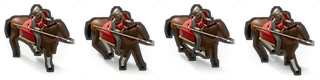
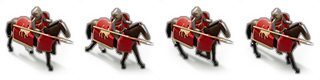
Graphismes 3D : point d'étape avant redémarrage (terrains, places fortes, effets, tours et unités en cours)
Claude-Session: https://claude.ai/code/session_013imxrBtnjcaCcqsphPahqh

diff --git a/assets/images/td/sprites.js b/assets/images/td/sprites.js
@@ -6,15 +6,81 @@
 // le sprite, à dessiner dans une passe « sol », sous tous les sprites (après le terrain).
 window.JEU = window.JEU || {};
 JEU.SPRITES = {
-  "place-angleterre-intact": {"src": "assets/images/td/place-angleterre-intact.png", "w": 150, "h": 150, "ax": 75, "ay": 132, "frames": 1},
-  "place-france-intact": {"src": "assets/images/td/place-france-intact.png", "w": 150, "h": 150, "ax": 75, "ay": 132, "frames": 1},
-  "place-omeyyades-intact": {"src": "assets/images/td/place-omeyyades-intact.png", "w": 150, "h": 150, "ax": 75, "ay": 132, "frames": 1},
+  "effet-carreau": {"src": "assets/images/td/effet-carreau.png", "w": 32, "h": 8, "ax": 16, "ay": 4, "frames": 1},
+  "effet-eclats": {"src": "assets/images/td/effet-eclats.png", "w": 32, "h": 32, "ax": 16, "ay": 16, "frames": 4},
+  "effet-fleche": {"src": "assets/images/td/effet-fleche.png", "w": 24, "h": 6, "ax": 12, "ay": 3, "frames": 1},
+  "effet-pierre": {"src": "assets/images/td/effet-pierre.png", "w": 14, "h": 14, "ax": 7, "ay": 7, "frames": 1},
+  "effet-poussiere": {"src": "assets/images/td/effet-poussiere.png", "w": 48, "h": 48, "ax": 24, "ay": 40, "frames": 5},
+  "fond-campagne": {"src": "assets/images/campagne/fond-campagne.jpg", "w": 1000, "h": 530, "ax": 0, "ay": 0, "frames": 1},
+  "lieu-angleterre": {"src": "assets/images/campagne/lieu-angleterre.png", "w": 80, "h": 80, "ax": 40, "ay": 64, "frames": 1},
+  "lieu-brume": {"src": "assets/images/campagne/lieu-brume.png", "w": 80, "h": 80, "ax": 40, "ay": 64, "frames": 1},
+  "lieu-france": {"src": "assets/images/campagne/lieu-france.png", "w": 80, "h": 80, "ax": 40, "ay": 64, "frames": 1},
+  "lieu-omeyyades": {"src": "assets/images/campagne/lieu-omeyyades.png", "w": 80, "h": 80, "ax": 40, "ay": 64, "frames": 1},
+  "ombre-place-angleterre-abime": {"src": "assets/images/td/ombre-place-angleterre-abime.png", "w": 240, "h": 210, "ax": 75, "ay": 88, "frames": 1},
+  "ombre-place-angleterre-intact": {"src": "assets/images/td/ombre-place-angleterre-intact.png", "w": 240, "h": 210, "ax": 75, "ay": 88, "frames": 1},
+  "ombre-place-angleterre-ruine": {"src": "assets/images/td/ombre-place-angleterre-ruine.png", "w": 240, "h": 210, "ax": 75, "ay": 88, "frames": 1},
+  "ombre-place-france-abime": {"src": "assets/images/td/ombre-place-france-abime.png", "w": 240, "h": 210, "ax": 75, "ay": 88, "frames": 1},
+  "ombre-place-france-intact": {"src": "assets/images/td/ombre-place-france-intact.png", "w": 240, "h": 210, "ax": 75, "ay": 88, "frames": 1},
+  "ombre-place-france-ruine": {"src": "assets/images/td/ombre-place-france-ruine.png", "w": 240, "h": 210, "ax": 75, "ay": 88, "frames": 1},
+  "ombre-place-omeyyades-abime": {"src": "assets/images/td/ombre-place-omeyyades-abime.png", "w": 240, "h": 210, "ax": 75, "ay": 88, "frames": 1},
+  "ombre-place-omeyyades-intact": {"src": "assets/images/td/ombre-place-omeyyades-intact.png", "w": 240, "h": 210, "ax": 75, "ay": 88, "frames": 1},
+  "ombre-place-omeyyades-ruine": {"src": "assets/images/td/ombre-place-omeyyades-ruine.png", "w": 240, "h": 210, "ax": 75, "ay": 88, "frames": 1},
+  "ombre-tour-archers-angleterre-1": {"src": "assets/images/td/ombre-tour-archers-angleterre-1.png", "w": 112, "h": 118, "ax": 35, "ay": 72, "frames": 1},
+  "ombre-tour-archers-france-1": {"src": "assets/images/td/ombre-tour-archers-france-1.png", "w": 112, "h": 118, "ax": 35, "ay": 72, "frames": 1},
+  "ombre-tour-archers-france-2": {"src": "assets/images/td/ombre-tour-archers-france-2.png", "w": 112, "h": 118, "ax": 35, "ay": 72, "frames": 1},
+  "ombre-tour-archers-france-3": {"src": "assets/images/td/ombre-tour-archers-france-3.png", "w": 112, "h": 118, "ax": 35, "ay": 72, "frames": 1},
+  "ombre-tour-archers-omeyyades-1": {"src": "assets/images/td/ombre-tour-archers-omeyyades-1.png", "w": 112, "h": 118, "ax": 35, "ay": 72, "frames": 1},
+  "ombre-tour-baliste-angleterre-1": {"src": "assets/images/td/ombre-tour-baliste-angleterre-1.png", "w": 112, "h": 118, "ax": 35, "ay": 72, "frames": 1},
+  "ombre-tour-baliste-france-1": {"src": "assets/images/td/ombre-tour-baliste-france-1.png", "w": 112, "h": 118, "ax": 35, "ay": 72, "frames": 1},
+  "ombre-tour-baliste-france-2": {"src": "assets/images/td/ombre-tour-baliste-france-2.png", "w": 112, "h": 118, "ax": 35, "ay": 72, "frames": 1},
+  "ombre-tour-baliste-france-3": {"src": "assets/images/td/ombre-tour-baliste-france-3.png", "w": 112, "h": 118, "ax": 35, "ay": 72, "frames": 1},
+  "ombre-tour-baliste-omeyyades-1": {"src": "assets/images/td/ombre-tour-baliste-omeyyades-1.png", "w": 112, "h": 118, "ax": 35, "ay": 72, "frames": 1},
+  "ombre-tour-catapulte-france-1": {"src": "assets/images/td/ombre-tour-catapulte-france-1.png", "w": 112, "h": 118, "ax": 35, "ay": 72, "frames": 1},
+  "ombre-tour-catapulte-france-2": {"src": "assets/images/td/ombre-tour-catapulte-france-2.png", "w": 112, "h": 118, "ax": 35, "ay": 72, "frames": 1},
+  "ombre-tour-catapulte-france-3": {"src": "assets/images/td/ombre-tour-catapulte-france-3.png", "w": 112, "h": 118, "ax": 35, "ay": 72, "frames": 1},
+  "ombre-tour-piquiers-france-1": {"src": "assets/images/td/ombre-tour-piquiers-france-1.png", "w": 112, "h": 118, "ax": 35, "ay": 72, "frames": 1},
+  "ombre-tour-piquiers-france-2": {"src": "assets/images/td/ombre-tour-piquiers-france-2.png", "w": 112, "h": 118, "ax": 35, "ay": 72, "frames": 1},
+  "ombre-tour-piquiers-france-3": {"src": "assets/images/td/ombre-tour-piquiers-france-3.png", "w": 112, "h": 118, "ax": 35, "ay": 72, "frames": 1},
+  "place-angleterre-abime": {"src": "assets/images/td/place-angleterre-abime.png", "w": 150, "h": 150, "ax": 75, "ay": 88, "frames": 1},
+  "place-angleterre-intact": {"src": "assets/images/td/place-angleterre-intact.png", "w": 150, "h": 150, "ax": 75, "ay": 88, "frames": 1},
+  "place-angleterre-ruine": {"src": "assets/images/td/place-angleterre-ruine.png", "w": 150, "h": 150, "ax": 75, "ay": 88, "frames": 1},
+  "place-france-abime": {"src": "assets/images/td/place-france-abime.png", "w": 150, "h": 150, "ax": 75, "ay": 88, "frames": 1},
+  "place-france-intact": {"src": "assets/images/td/place-france-intact.png", "w": 150, "h": 150, "ax": 75, "ay": 88, "frames": 1},
+  "place-france-ruine": {"src": "assets/images/td/place-france-ruine.png", "w": 150, "h": 150, "ax": 75, "ay": 88, "frames": 1},
+  "place-omeyyades-abime": {"src": "assets/images/td/place-omeyyades-abime.png", "w": 150, "h": 150, "ax": 75, "ay": 88, "frames": 1},
+  "place-omeyyades-intact": {"src": "assets/images/td/place-omeyyades-intact.png", "w": 150, "h": 150, "ax": 75, "ay": 88, "frames": 1},
+  "place-omeyyades-ruine": {"src": "assets/images/td/place-omeyyades-ruine.png", "w": 150, "h": 150, "ax": 75, "ay": 88, "frames": 1},
+  "terrain-chateau": {"src": "assets/images/td/terrain-chateau.jpg", "w": 1000, "h": 660, "ax": 0, "ay": 0, "frames": 1},
+  "terrain-col": {"src": "assets/images/td/terrain-col.jpg", "w": 1000, "h": 660, "ax": 0, "ay": 0, "frames": 1},
+  "terrain-domaine": {"src": "assets/images/td/terrain-domaine.jpg", "w": 1000, "h": 660, "ax": 0, "ay": 0, "frames": 1},
+  "terrain-foret": {"src": "assets/images/td/terrain-foret.jpg", "w": 1000, "h": 660, "ax": 0, "ay": 0, "frames": 1},
+  "terrain-gue": {"src": "assets/images/td/terrain-gue.jpg", "w": 1000, "h": 660, "ax": 0, "ay": 0, "frames": 1},
+  "terrain-moulin": {"src": "assets/images/td/terrain-moulin.jpg", "w": 1000, "h": 660, "ax": 0, "ay": 0, "frames": 1},
   "tour-archers-angleterre-1": {"src": "assets/images/td/tour-archers-angleterre-1.png", "w": 70, "h": 84, "ax": 35, "ay": 72, "frames": 1},
   "tour-archers-france-1": {"src": "assets/images/td/tour-archers-france-1.png", "w": 70, "h": 84, "ax": 35, "ay": 72, "frames": 1},
   "tour-archers-france-2": {"src": "assets/images/td/tour-archers-france-2.png", "w": 70, "h": 84, "ax": 35, "ay": 72, "frames": 1},
   "tour-archers-france-3": {"src": "assets/images/td/tour-archers-france-3.png", "w": 70, "h": 84, "ax": 35, "ay": 72, "frames": 1},
   "tour-archers-omeyyades-1": {"src": "assets/images/td/tour-archers-omeyyades-1.png", "w": 70, "h": 84, "ax": 35, "ay": 72, "frames": 1},
+  "tour-baliste-angleterre-1": {"src": "assets/images/td/tour-baliste-angleterre-1.png", "w": 70, "h": 84, "ax": 35, "ay": 72, "frames": 1},
+  "tour-baliste-france-1": {"src": "assets/images/td/tour-baliste-france-1.png", "w": 70, "h": 84, "ax": 35, "ay": 72, "frames": 1},
+  "tour-baliste-france-2": {"src": "assets/images/td/tour-baliste-france-2.png", "w": 70, "h": 84, "ax": 35, "ay": 72, "frames": 1},
+  "tour-baliste-france-3": {"src": "assets/images/td/tour-baliste-france-3.png", "w": 70, "h": 84, "ax": 35, "ay": 72, "frames": 1},
+  "tour-baliste-omeyyades-1": {"src": "assets/images/td/tour-baliste-omeyyades-1.png", "w": 70, "h": 84, "ax": 35, "ay": 72, "frames": 1},
+  "tour-catapulte-france-1": {"src": "assets/images/td/tour-catapulte-france-1.png", "w": 70, "h": 84, "ax": 35, "ay": 72, "frames": 1},
+  "tour-catapulte-france-2": {"src": "assets/images/td/tour-catapulte-france-2.png", "w": 70, "h": 84, "ax": 35, "ay": 72, "frames": 1},
+  "tour-catapulte-france-3": {"src": "assets/images/td/tour-catapulte-france-3.png", "w": 70, "h": 84, "ax": 35, "ay": 72, "frames": 1},
+  "tour-piquiers-france-1": {"src": "assets/images/td/tour-piquiers-france-1.png", "w": 70, "h": 84, "ax": 35, "ay": 72, "frames": 1},
+  "tour-piquiers-france-2": {"src": "assets/images/td/tour-piquiers-france-2.png", "w": 70, "h": 84, "ax": 35, "ay": 72, "frames": 1},
+  "tour-piquiers-france-3": {"src": "assets/images/td/tour-piquiers-france-3.png", "w": 70, "h": 84, "ax": 35, "ay": 72, "frames": 1},
+  "unite-belier-france": {"src": "assets/images/td/unite-belier-france.png", "w": 56, "h": 64, "ax": 28, "ay": 60, "frames": 4},
   "unite-cavaliers-angleterre": {"src": "assets/images/td/unite-cavaliers-angleterre.png", "w": 40, "h": 40, "ax": 20, "ay": 36, "frames": 4},
+  "unite-cavaliers-france": {"src": "assets/images/td/unite-cavaliers-france.png", "w": 40, "h": 40, "ax": 20, "ay": 36, "frames": 4},
+  "unite-cavaliers-omeyyades": {"src": "assets/images/td/unite-cavaliers-omeyyades.png", "w": 40, "h": 40, "ax": 20, "ay": 36, "frames": 4},
+  "unite-champion-angleterre": {"src": "assets/images/td/unite-champion-angleterre.png", "w": 48, "h": 48, "ax": 24, "ay": 44, "frames": 4},
+  "unite-champion-omeyyades": {"src": "assets/images/td/unite-champion-omeyyades.png", "w": 48, "h": 48, "ax": 24, "ay": 44, "frames": 4},
   "unite-fantassins-france": {"src": "assets/images/td/unite-fantassins-france.png", "w": 40, "h": 40, "ax": 20, "ay": 36, "frames": 4},
+  "unite-hommes-angleterre": {"src": "assets/images/td/unite-hommes-angleterre.png", "w": 40, "h": 40, "ax": 20, "ay": 36, "frames": 4},
+  "unite-hommes-omeyyades": {"src": "assets/images/td/unite-hommes-omeyyades.png", "w": 40, "h": 40, "ax": 20, "ay": 36, "frames": 4},
+  "unite-pietaille-angleterre": {"src": "assets/images/td/unite-pietaille-angleterre.png", "w": 40, "h": 40, "ax": 20, "ay": 36, "frames": 4},
   "unite-pietaille-omeyyades": {"src": "assets/images/td/unite-pietaille-omeyyades.png", "w": 40, "h": 40, "ax": 20, "ay": 36, "frames": 4}
 };
